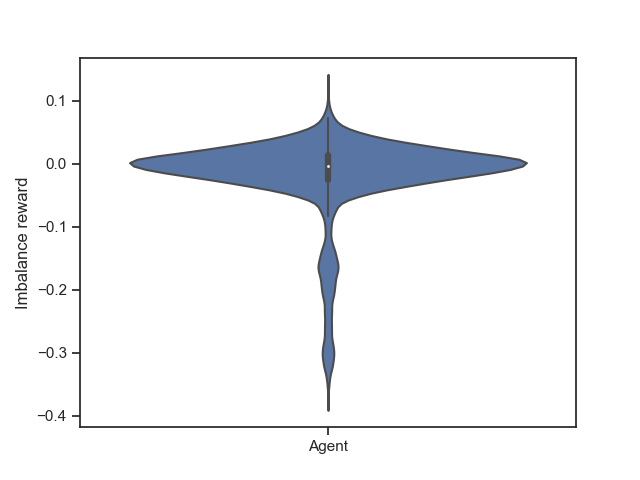
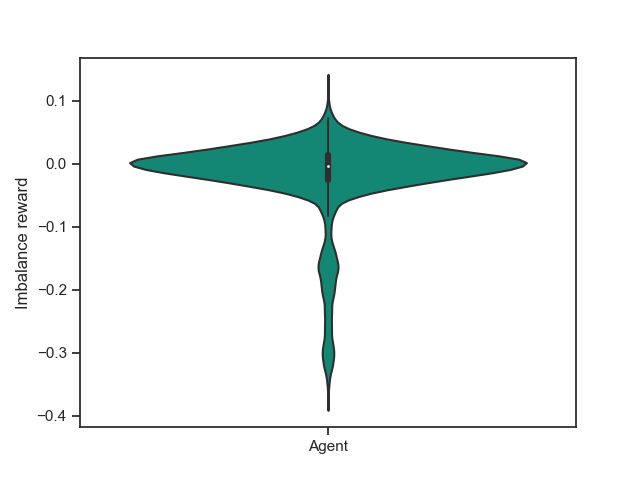
Update on Overleaf.

Changed region(s): [[0.1875, 0.1562, 0.8125, 0.8438]]

diff --git a/chapters/problem_description.tex b/chapters/problem_description.tex
@@ -25,7 +25,7 @@ instantaneous demand, or total electricity consumption.
 \end{displayquote}
 
 
-The idea is to modify the demand of electric power to follow the production profile of distributed energy resources (DER), such as solar power\footnote{The terms \textit{demand} and \textit{consumption} are used interchangeably in this thesis, and refers to the electric power (megawatts) that is consumed}. The consequence of this is that the solar power is consumed locally instead of having to be transported out to the grid, through lines that originally were not constructed for DER. Vázquez-Canteli and Nagy list the following advantages of demand response \cite{active_network_management}:
+The idea is to modify the demand of electric power to follow the production profile of distributed energy resources (DER), such as solar power\footnote{The terms \textit{demand} and \textit{consumption} are used interchangeably in this thesis, and refer to the electric power (megawatts) that is consumed}. The consequence of this is that the solar power is consumed locally instead of having to be transported out to the grid, through lines that originally were not constructed for DER. Vázquez-Canteli and Nagy list the following advantages of demand response \cite{active_network_management}:
 
 \begin{itemize}
 \item Improved grid stability due to increased demand flexibility. 

diff --git a/chapters/circuits/plot_powers.tex b/chapters/circuits/plot_powers.tex
@@ -1,5 +1,7 @@
 \documentclass[crop=false]{standalone}
 \usepackage{pgfplots}
+\definecolor{nmbu_green}{RGB}{0,154,129}
+\definecolor{nmbu_red}{RGB}{231,82,68}
 \pgfplotsset{compat=1.15}
 % Grouping the common style settings here to make the code below easier to read
 
@@ -29,7 +31,7 @@
     ylabel = P,
     xlabel = $\omega t$
 ]
-\addplot [mark=none, blue] {(sin(deg(x)))^2};
+\addplot [mark=none, nmbu_green] {(sin(deg(x)))^2};
 \legend{Resisitive load}
 \end{axis}
 \end{tikzpicture}
@@ -58,7 +60,7 @@
         ylabel = P,
     xlabel = $\omega t$
 ]
-\addplot [mark=none, blue] {sin(deg(x))*sin(deg(x + pi/2))};
+\addplot [mark=none, nmbu_green] {sin(deg(x))*sin(deg(x + pi/2))};
 \legend{Capacitive load}
 \end{axis}
 \end{tikzpicture}
@@ -87,7 +89,7 @@
     ylabel = P,
     xlabel = $\omega t$
 ]
-\addplot [mark=none, blue] {sin(deg(x))*sin(deg(x - pi/2))};
+\addplot [mark=none, nmbu_green] {sin(deg(x))*sin(deg(x - pi/2))};
 \legend{Inductive load}
 \end{axis}
 \end{tikzpicture}

diff --git a/chapters/circuits/plot_active_power_flow.tex b/chapters/circuits/plot_active_power_flow.tex
@@ -1,5 +1,8 @@
 \documentclass{standalone}
 \usepackage{pgfplots}
+\definecolor{nmbu_green}{RGB}{0,154,129}
+\definecolor{nmbu_red}{RGB}{231,82,68}
+
 \pgfplotsset{compat=1.15}
 % Grouping the common style settings here to make the code below easier to read
 \pgfkeys{/pgfplots/Axis Style/.style={
@@ -29,10 +32,10 @@
     ylabel={$P$},
     legend pos=north west
  ]
-\addplot [mark=none, thin, black] {sin(deg(x))}
+\addplot [mark=none, thin, nmbu_green] {sin(deg(x))}
         %node[pos=.83, below] {Real power flow}
         ;
-\addplot [mark=none, thin, blue] {sin(deg(x-0.13)) + sin(deg(0.13)}
+\addplot [mark=none, thin, nmbu_red] {sin(deg(x-0.13)) + sin(deg(0.13)}
          %node[pos=.63, above] {Real power flow}
          ;
 \legend{Without loss, With loss}
